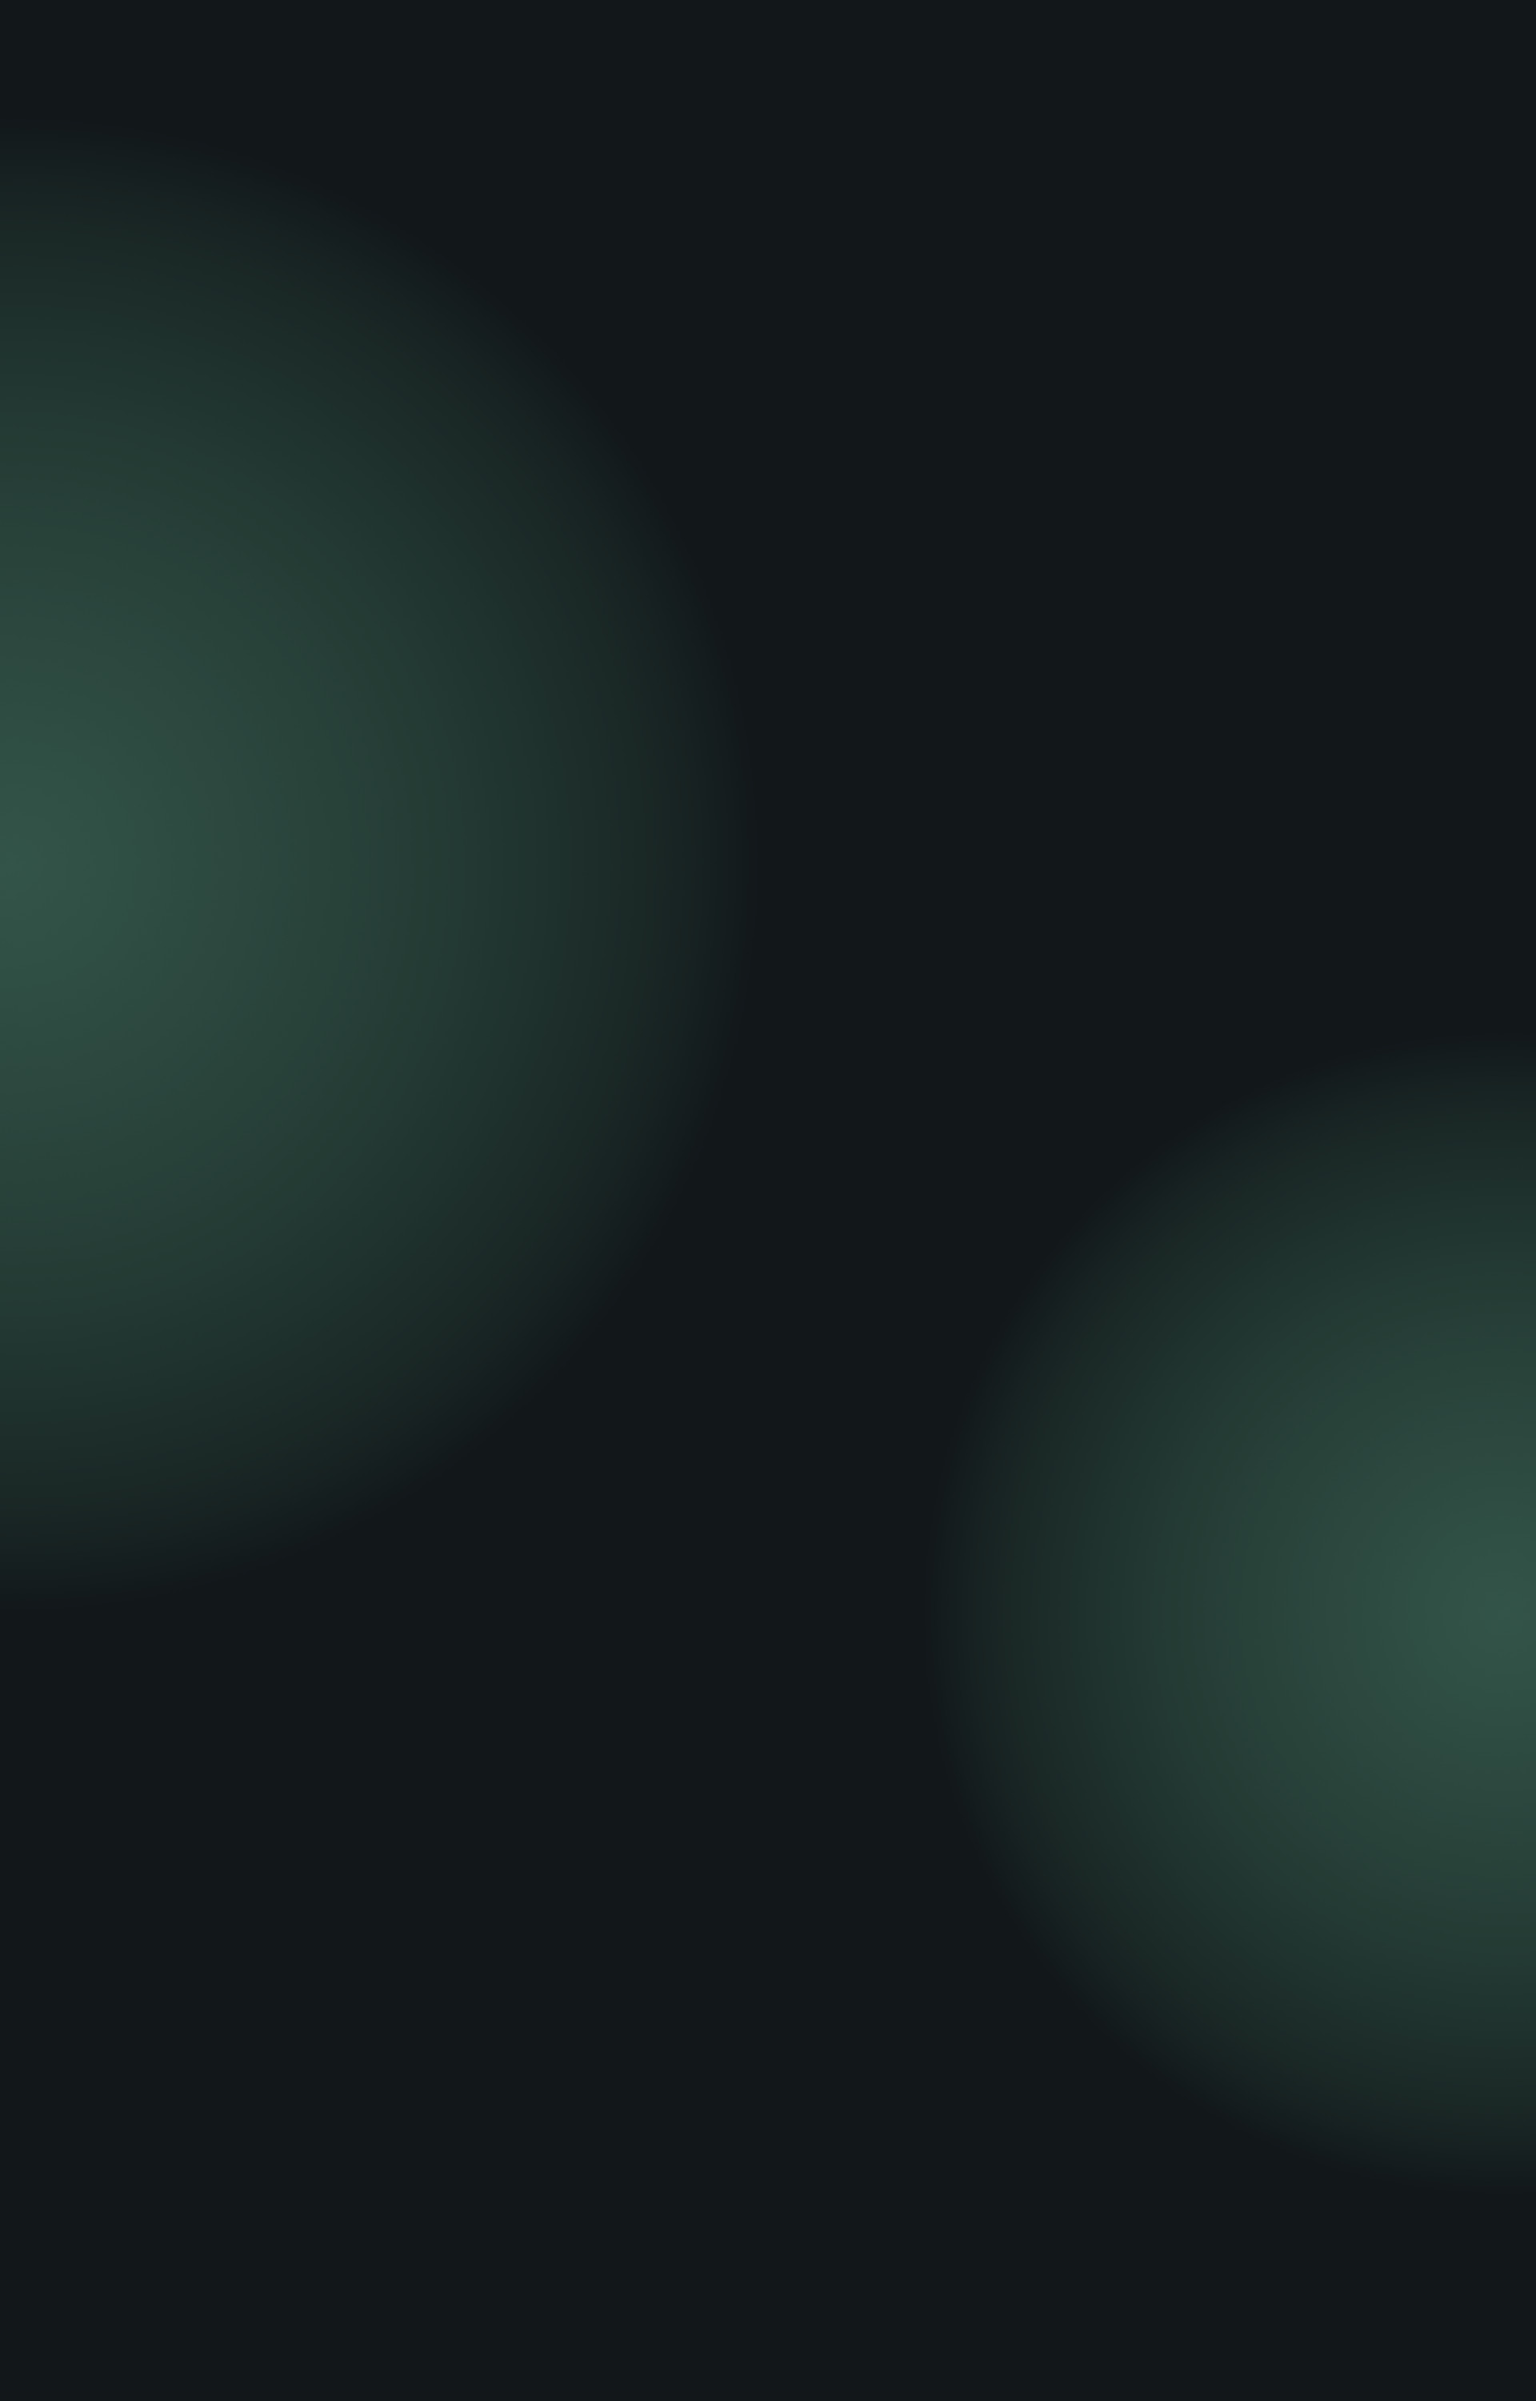
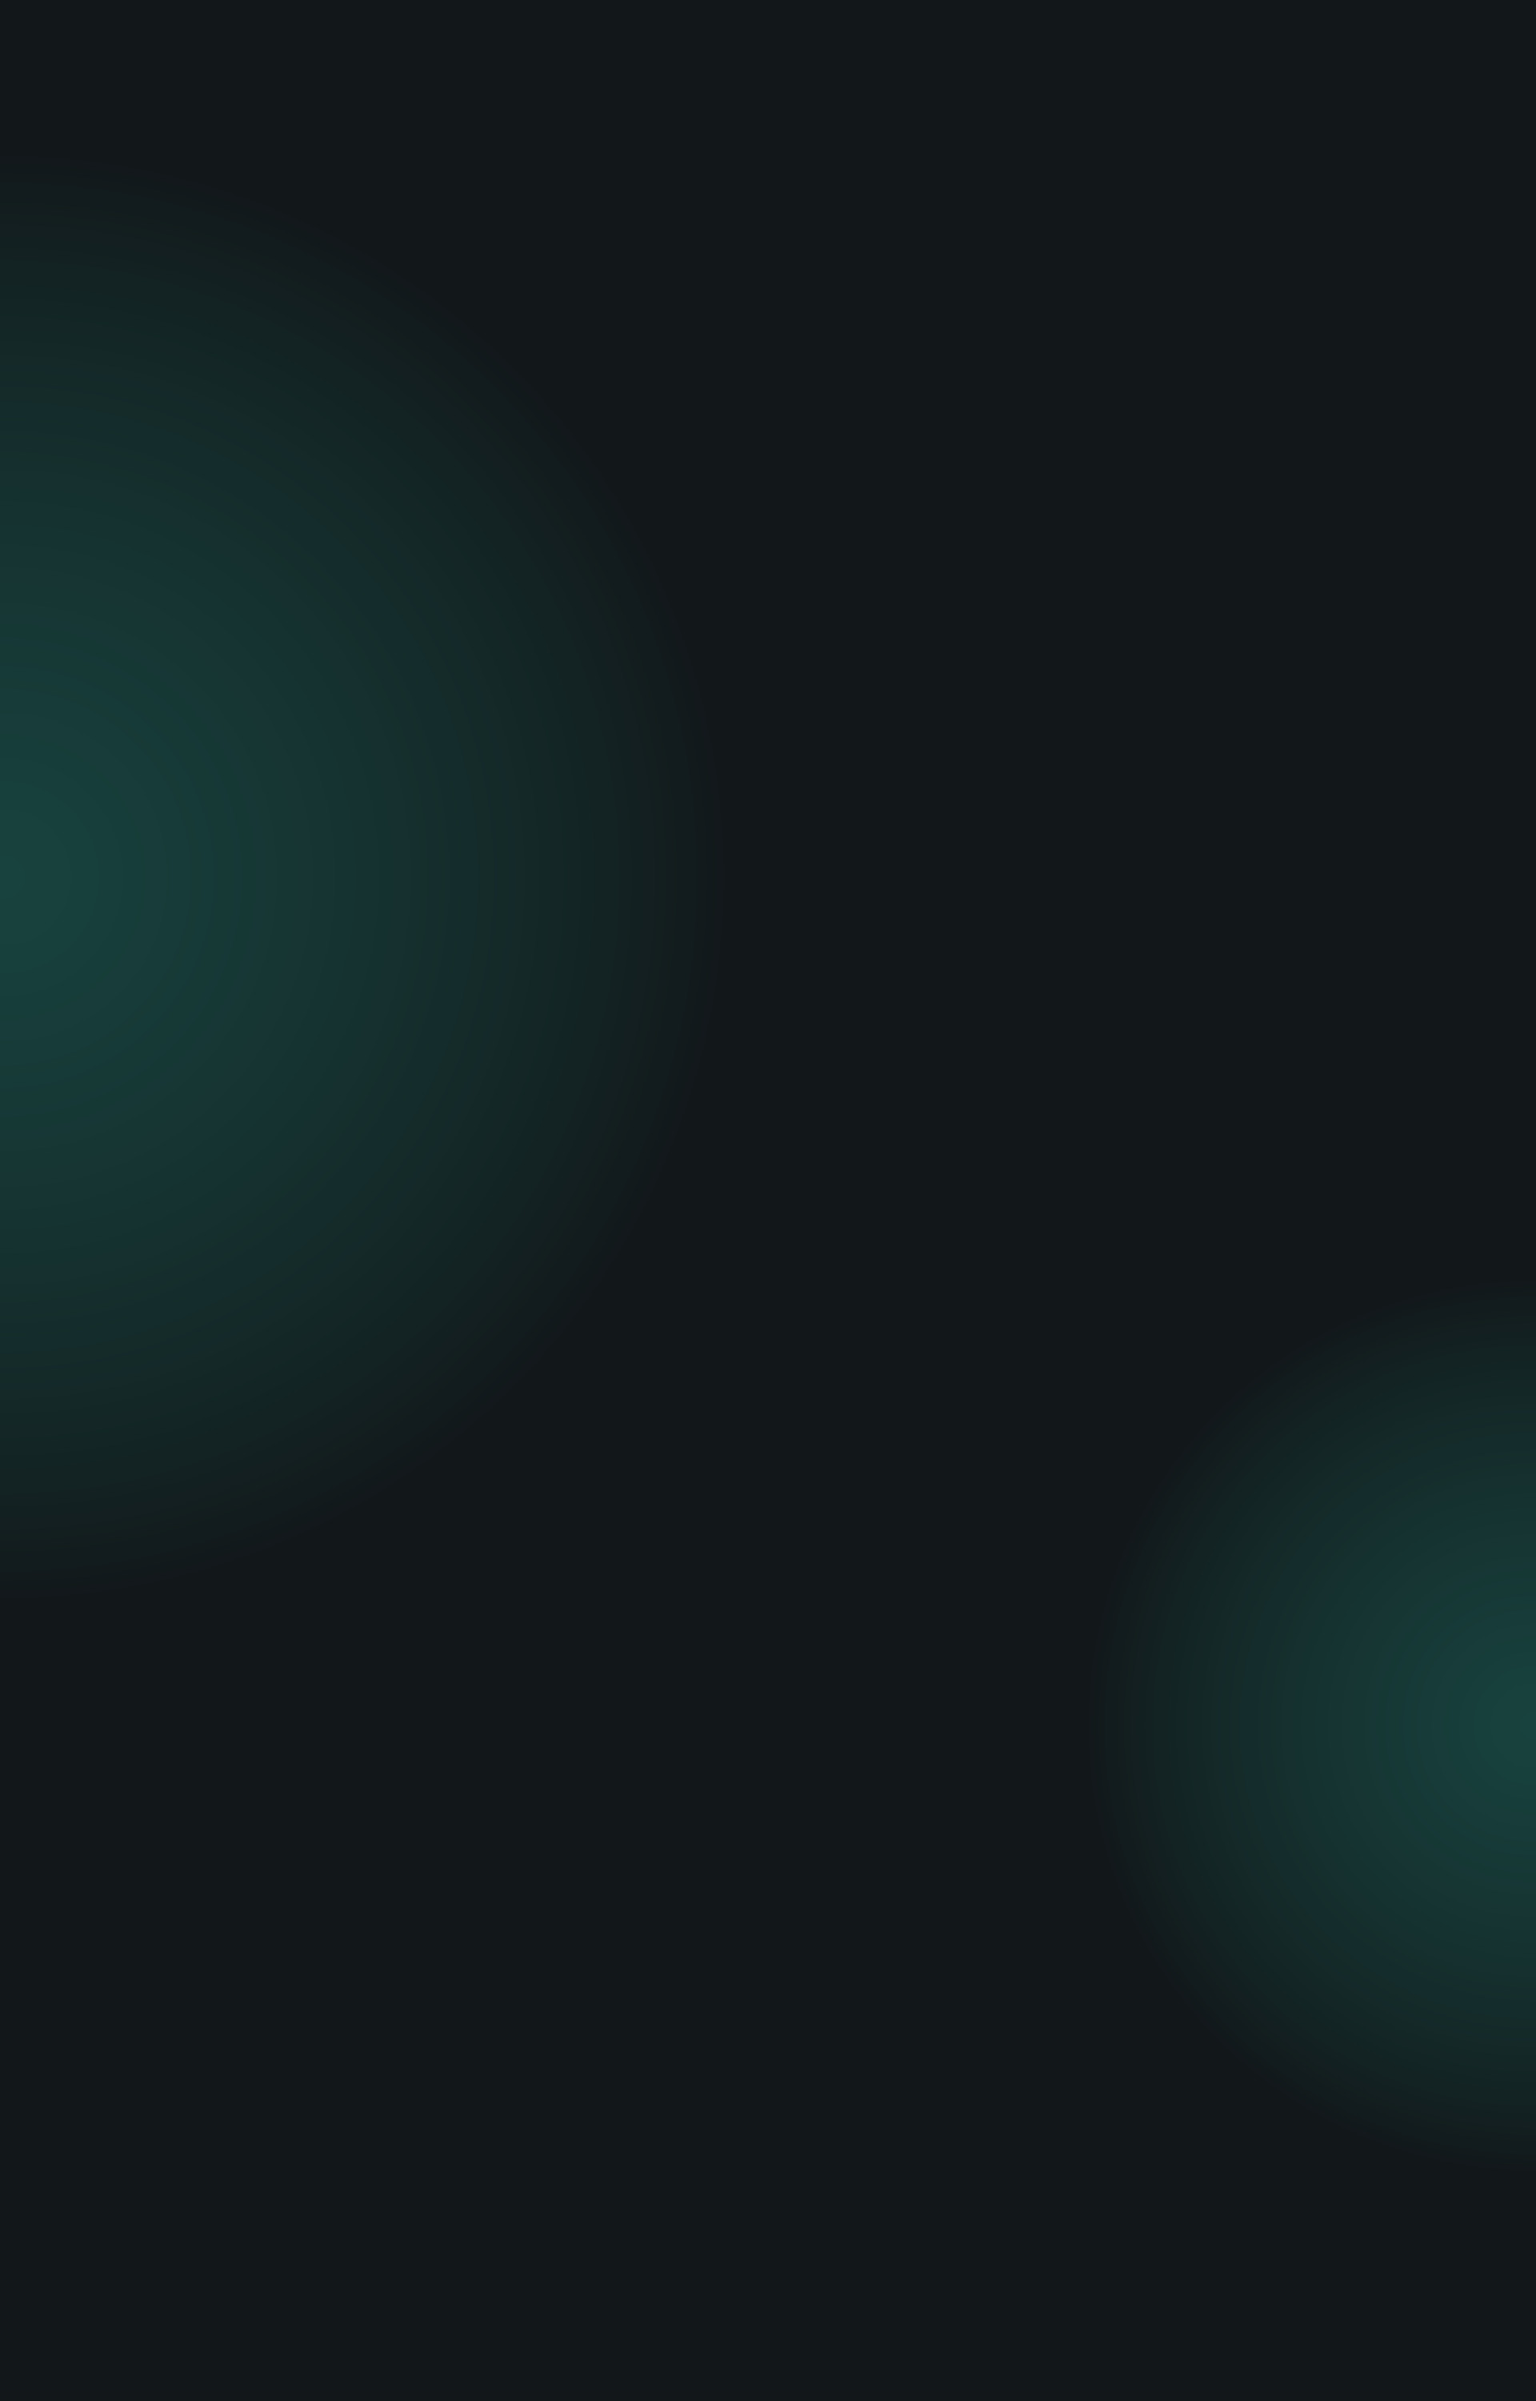
Fix ripples and color of background #1

Changed region(s): [[0.6875, 0.465, 1.0, 0.713], [0.0, 0.31, 0.0938, 0.434]]

diff --git a/www/css/styles.css b/www/css/styles.css
@@ -67,7 +67,7 @@ body {
     background-image: url('../img/background.jpg');
     background-position: 0% 0%;
     background-repeat: repeat-y;
-    background-size: cover;
+    background-size: contain;
     background-attachment: scroll;
     overflow: visible;    
 }
@@ -204,12 +204,6 @@ footer{
 }
 
 #main-container-fluid {
-    /*background-image: url('../img/lotus.svg');*/
-    background-repeat: no-repeat;
-    background-size: 800px 800px;
-    background-position: 10% 0%;    
-    width: 100%;
-    height: 100%;
 }
 
 .card {

diff --git a/www/js/background.js b/www/js/background.js
@@ -16,7 +16,7 @@ class firefly
     move()
     {
         this.s += 1;
-        this.a = this.a - Math.random() / 10;
+        this.a = this.a - Math.random() / 20;
     }
   
     show()
@@ -74,8 +74,8 @@ function draw()
         }
     }
         
-    if(f.length < 50){
-        for(let j = f.length; j < 50; j++){
+    if(f.length < 25){
+        for(let j = f.length; j < 25; j++){
             f.push(new firefly());
         }
      }
